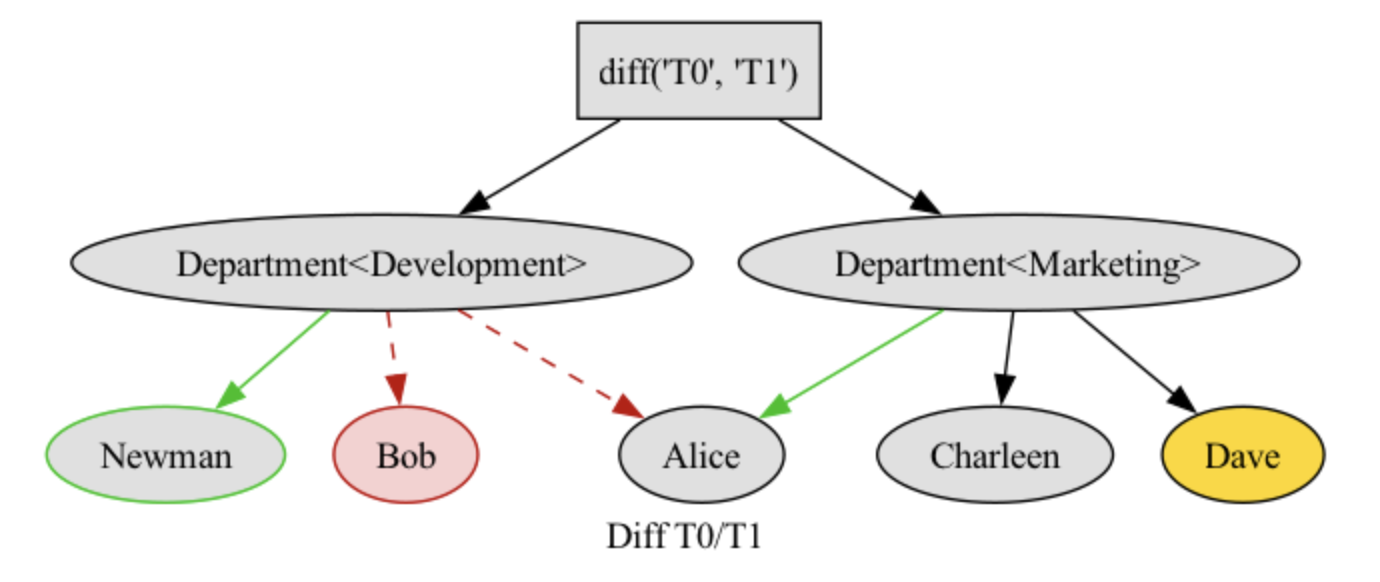
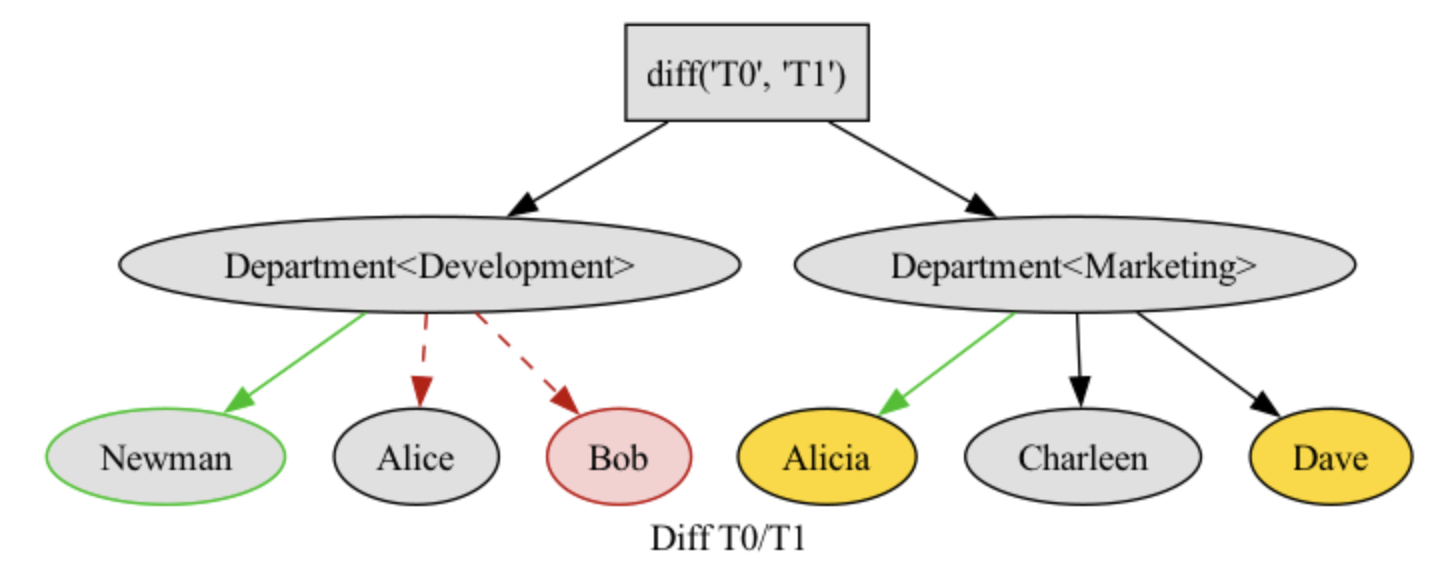
Update screenshot

diff --git a/tests/make_sample_files.py b/tests/make_sample_files.py
@@ -141,7 +141,7 @@ def write_object_diff_png():
         Path(__file__).parent / "temp/tree_diff_obj.png",
         format="png",
         # add_root=False,
-        # unique_nodes=False,
+        unique_nodes=False,
         graph_attrs={"label": "Diff T0/T1"},
         node_attrs={"style": "filled", "fillcolor": "#e0e0e0"},
         edge_attrs={},
